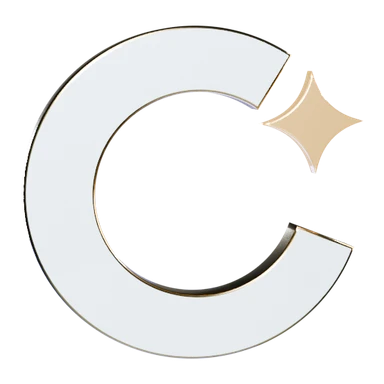
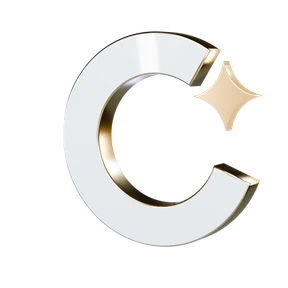
feat(hero): the C turns in 3D from the film's render, 1.5x larger

diff --git a/e2e/hero.spec.ts b/e2e/hero.spec.ts
@@ -9,6 +9,14 @@ function hero(page: Page) {
     return page.locator("section.hero-show");
 }
 
+function markTurn(page: Page) {
+    return page.locator('section.hero-show img[src="/hero/mark-3d-turn.webp"]');
+}
+
+function markStill(page: Page) {
+    return page.locator('section.hero-show img[src="/hero/mark-3d.webp"]');
+}
+
 function stage(page: Page) {
     return page.locator("[data-show-stage]");
 }
@@ -30,8 +38,11 @@ test("the hero is the five-illustration stage and the 3D C alone, with no consol
     await page.goto("/");
     await expect(page.getByRole("heading", { level: 1 })).toHaveText(/Changenius/);
     await expect(hero(page).getByRole("img", { name: SHOW_LABEL })).toBeVisible();
-    await expect(hero(page).locator('img[src="/hero/mark-3d.webp"]')).toHaveAttribute("alt", "");
-    await expect(hero(page).locator('[aria-hidden="true"] img[src="/hero/mark-3d.webp"]')).toHaveCount(1);
+    await expect(hero(page).locator('[aria-hidden="true"] img[src="/hero/mark-3d.webp"]')).toHaveAttribute("alt", "");
+    await expect(hero(page).locator('[aria-hidden="true"] img[src="/hero/mark-3d-turn.webp"]')).toHaveAttribute("alt", "");
+    await expect(markTurn(page)).toBeVisible();
+    await expect(markStill(page)).toBeHidden();
+    expect((await markTurn(page).boundingBox())!.width).toBe(page.viewportSize()!.width >= 640 ? 144 : 104);
     await expect(stage(page).locator("canvas")).toBeVisible();
     await expect(page.getByText("Meet Changenius.")).toHaveCount(0);
     await expect(hero(page).locator("p")).toHaveCount(0);
@@ -57,6 +68,8 @@ test("pause stops time and the backdrop video, and play resumes them", async ({ 
     await expect.poll(videoPaused).toBe(false);
     await page.getByRole("button", { name: "Pause animation" }).click();
     await expect.poll(videoPaused).toBe(true);
+    await expect(markStill(page)).toBeVisible();
+    await expect(markTurn(page)).toBeHidden();
     await page.waitForTimeout(500);
     const held = await showSeconds(page);
     await page.waitForTimeout(1_000);
@@ -64,6 +77,8 @@ test("pause stops time and the backdrop video, and play resumes them", async ({ 
     await page.getByRole("button", { name: "Play animation" }).click();
     await expect.poll(() => showSeconds(page)).toBeGreaterThan(held);
     await expect.poll(videoPaused).toBe(false);
+    await expect(markTurn(page)).toBeVisible();
+    await expect(markStill(page)).toBeHidden();
 });
 
 test("time stops while the hero is scrolled out of view", async ({ page }) => {
@@ -173,6 +188,8 @@ test.describe("reduced motion", () => {
         await expect(stage(page).locator("canvas")).toHaveCount(0);
         await expect(stage(page).getByText("CHANGENIUS")).toBeVisible();
         await expect(page.locator("video[data-hero-backdrop]")).toHaveCount(0);
+        await expect(markStill(page)).toBeVisible();
+        await expect(markTurn(page)).toBeHidden();
         await page.getByRole("button", { name: "Pause animation" }).click();
         await expect(page.getByRole("button", { name: "Play animation" })).toBeVisible();
         await expect(page.getByText("Meet Changenius.")).toHaveCount(0);

diff --git a/src/app/globals.css b/src/app/globals.css
@@ -26,49 +26,20 @@ body {
     color: var(--color-fg);
 }
 
-.mark-3d { position: relative; perspective: 600px; animation: mark-float 6s ease-in-out infinite; }
-.mark-3d-tilt { position: relative; width: 100%; height: 100%; transform-style: preserve-3d; animation: mark-tilt 9s ease-in-out infinite alternate; }
-.mark-3d-sweep {
-    position: absolute;
-    inset: 0;
-    pointer-events: none;
-    mix-blend-mode: screen;
-    -webkit-mask-image: url(/hero/mark-3d.webp);
-    mask-image: url(/hero/mark-3d.webp);
-    -webkit-mask-size: contain;
-    mask-size: contain;
-    -webkit-mask-repeat: no-repeat;
-    mask-repeat: no-repeat;
-    -webkit-mask-position: center;
-    mask-position: center;
-    background-image: linear-gradient(110deg, transparent 38%, rgba(255, 255, 255, 0.35) 50%, transparent 62%);
-    background-size: 200% 100%;
-    background-repeat: no-repeat;
-    background-position: 140% 0;
-    animation: mark-sweep 7s ease-in-out infinite;
-}
-.mark-3d-glint {
-    position: absolute;
-    left: 80.6%;
-    top: 27.6%;
-    width: 26%;
-    height: 26%;
-    translate: -50% -50%;
-    pointer-events: none;
-    mix-blend-mode: screen;
-    background: radial-gradient(circle, rgba(240, 210, 154, 0.9) 0%, rgba(212, 175, 106, 0.35) 35%, transparent 70%);
-    opacity: 0.2;
-    animation: mark-glint 3.5s ease-in-out infinite;
-}
+.mark-3d { position: relative; animation: mark-float 6s ease-in-out infinite; }
+.mark-3d-still, .mark-3d-turn { position: absolute; inset: 0; width: 100%; height: 100%; }
+.mark-3d-turn { visibility: hidden; }
+.mark-3d[data-ready] .mark-3d-turn { visibility: visible; }
+.mark-3d[data-ready] .mark-3d-still { visibility: hidden; }
 @keyframes mark-float { 0%, 100% { transform: translateY(0); } 50% { transform: translateY(-4px); } }
-@keyframes mark-tilt { from { transform: rotateY(-7deg) rotateX(3deg); } to { transform: rotateY(7deg) rotateX(-3deg); } }
-@keyframes mark-sweep { 0% { background-position: 140% 0; } 23% { background-position: -40% 0; } 100% { background-position: -40% 0; } }
-@keyframes mark-glint { 0%, 100% { opacity: 0.2; } 50% { opacity: 0.7; } }
-.hero-show[data-paused] .mark-3d,
-.hero-show[data-paused] .mark-3d * { animation-play-state: paused; }
+.hero-show[data-paused] .mark-3d { animation-play-state: paused; }
+.hero-show[data-paused] .mark-3d .mark-3d-turn { visibility: hidden; }
+.hero-show[data-paused] .mark-3d .mark-3d-still { visibility: visible; }
 
 @media (prefers-reduced-motion: reduce) {
-    .mark-3d, .mark-3d * { animation: none; }
+    .mark-3d { animation: none; }
+    .mark-3d[data-ready] .mark-3d-turn { visibility: hidden; }
+    .mark-3d[data-ready] .mark-3d-still { visibility: visible; }
     html { scroll-behavior: auto; }
     [data-hero-backdrop] { display: none; }
 }

diff --git a/src/components/brand/changenius-mark-3d.tsx b/src/components/brand/changenius-mark-3d.tsx
@@ -1,22 +1,38 @@
+"use client";
+
+import { useCallback, useState } from "react";
 import { cn } from "@/lib/cn";
 
 export function ChangeniusMark3D({ className }: { className?: string }) {
+    const [ready, setReady] = useState(false);
+    const turnRef = useCallback((img: HTMLImageElement | null) => {
+        if (img?.complete && img.naturalWidth > 0) setReady(true);
+    }, []);
+
     return (
-        <div aria-hidden="true" className={cn("mark-3d size-[72px] sm:size-24", className)}>
-            <div className="mark-3d-tilt">
-                {/* eslint-disable-next-line @next/next/no-img-element */}
-                <img
-                    src="/hero/mark-3d.webp"
-                    alt=""
-                    width={192}
-                    height={192}
-                    decoding="async"
-                    fetchPriority="high"
-                    className="size-full"
-                />
-                <span className="mark-3d-sweep" />
-                <span className="mark-3d-glint" />
-            </div>
+        <div aria-hidden="true" data-ready={ready ? "" : undefined} className={cn("mark-3d size-[104px] sm:size-36", className)}>
+            {/* eslint-disable-next-line @next/next/no-img-element */}
+            <img
+                src="/hero/mark-3d.webp"
+                alt=""
+                width={288}
+                height={288}
+                decoding="async"
+                fetchPriority="high"
+                className="mark-3d-still"
+            />
+            {/* eslint-disable-next-line @next/next/no-img-element */}
+            <img
+                ref={turnRef}
+                src="/hero/mark-3d-turn.webp"
+                alt=""
+                width={288}
+                height={288}
+                decoding="async"
+                fetchPriority="low"
+                onLoad={() => setReady(true)}
+                className="mark-3d-turn"
+            />
         </div>
     );
 }
